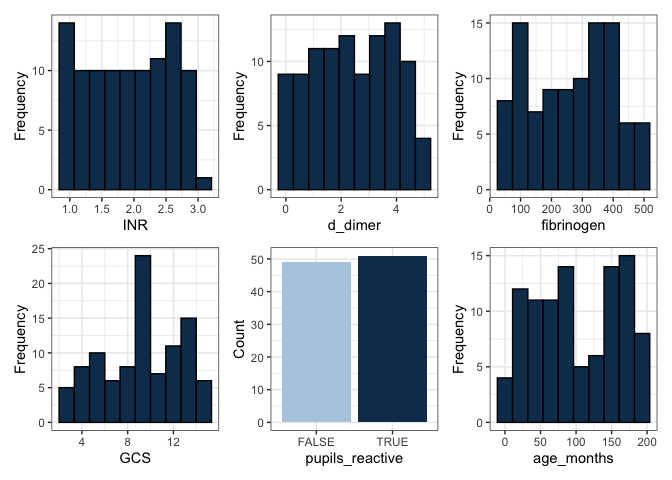
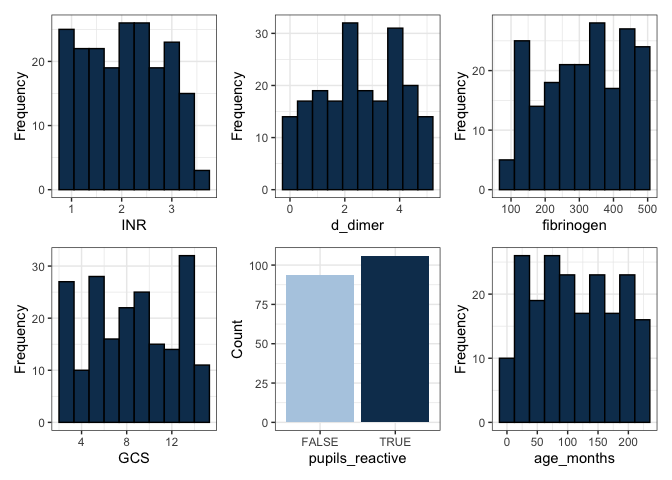
phoenix values

diff --git a/pages/Phoenix_Sepsis_Score_logic.md b/pages/Phoenix_Sepsis_Score_logic.md
@@ -234,18 +234,18 @@ typical clinical variations.
 
 ``` r
 # Subject cohort ----
-sample_count <- 100
+sample_count <- 200
 
 # Define min-max ranges for each variable
 PaO2_FiO2_range <- c(100, 450)
-SpO2_FiO2_range <- c(100, 300)
-lactate_range <- c(0.5, 6)
-platelets_range <- c(50000, 450000)
-INR_range <- c(0.8, 3)
+SpO2_FiO2_range <- c(100, 450)
+lactate_range <- c(0.5, 5)
+platelets_range <- c(20000, 450000)
+INR_range <- c(0.8, 3.5)
 d_dimer_range <- c(0, 5)
-fibrinogen_range <- c(50, 500)
+fibrinogen_range <- c(100, 500)
 GCS_range <- c(3, 15)
-age_months_range <- c(1, 200)
+age_months_range <- c(1, 228)
 
 # Generate random data for a given number of subjects
 data <- data.frame(
@@ -270,26 +270,26 @@ print(head(data))
 ```
 
     ##   subject_id PaO2_FiO2 SpO2_FiO2 is_on_IMV lactate
-    ## 1          1    200.65    220.00     FALSE    4.82
-    ## 2          2    375.91    166.56      TRUE    0.55
-    ## 3          3    243.14    197.72     FALSE    4.78
-    ## 4          4    409.06    290.89     FALSE    4.51
-    ## 5          5    429.16    196.58     FALSE    3.97
-    ## 6          6    115.94    278.07      TRUE    3.15
+    ## 1          1    200.65    183.55      TRUE    1.57
+    ## 2          2    375.91    436.83     FALSE    3.59
+    ## 3          3    243.14    310.48      TRUE    1.52
+    ## 4          4    409.06    280.26     FALSE    1.93
+    ## 5          5    429.16    240.90     FALSE    1.28
+    ## 6          6    115.94    408.09     FALSE    4.11
     ##   vasoactive_medications platelets  INR d_dimer
-    ## 1                      2    191442 1.32    4.22
-    ## 2                      2    196577 2.31    1.30
-    ## 3                      2    164840 1.30    0.12
-    ## 4                      0     81989 1.50    4.31
-    ## 5                      0    196182 1.18    1.67
-    ## 6                      2    121206 2.56    3.16
+    ## 1                      2    137658 3.12    1.17
+    ## 2                      0    275363 3.20    1.15
+    ## 3                      3     88879 2.12    0.31
+    ## 4                      3    386975 2.74    2.49
+    ## 5                      2    384528 2.11    1.22
+    ## 6                      0    225491 3.47    3.79
     ##   fibrinogen GCS pupils_reactive age_months
-    ## 1     261.81  10            TRUE         18
-    ## 2     214.63  10           FALSE        182
-    ## 3     104.57   7           FALSE        142
-    ## 4      71.15   7            TRUE        195
-    ## 5     168.26  10            TRUE         92
-    ## 6     485.89   8           FALSE         67
+    ## 1     355.67  12           FALSE        199
+    ## 2     149.93   4            TRUE         26
+    ## 3     202.11  15            TRUE        209
+    ## 4     428.23   8            TRUE        175
+    ## 5     421.51  15            TRUE         37
+    ## 6     118.33  14           FALSE         32
 
 ## Data distribution plots
 
@@ -458,34 +458,34 @@ if ("data" %in% ls() && is.data.frame(data)) {
 print(head(data))
 ```
 
-    ##   subject_id               result total_score
-    ## 1          1         Septic shock           9
-    ## 2          2         Septic shock          10
-    ## 3          3         Septic shock           9
-    ## 4          4               Sepsis           2
-    ## 5          5 Monitor and reassess           1
-    ## 6          6         Septic shock          10
-    ##   PaO2_FiO2 SpO2_FiO2 is_on_IMV lactate
-    ## 1    200.65    220.00     FALSE    4.82
-    ## 2    375.91    166.56      TRUE    0.55
-    ## 3    243.14    197.72     FALSE    4.78
-    ## 4    409.06    290.89     FALSE    4.51
-    ## 5    429.16    196.58     FALSE    3.97
-    ## 6    115.94    278.07      TRUE    3.15
-    ##   vasoactive_medications platelets  INR d_dimer
-    ## 1                      2    191442 1.32    4.22
-    ## 2                      2    196577 2.31    1.30
-    ## 3                      2    164840 1.30    0.12
-    ## 4                      0     81989 1.50    4.31
-    ## 5                      0    196182 1.18    1.67
-    ## 6                      2    121206 2.56    3.16
-    ##   fibrinogen GCS pupils_reactive age_months
-    ## 1     261.81  10            TRUE         18
-    ## 2     214.63  10           FALSE        182
-    ## 3     104.57   7           FALSE        142
-    ## 4      71.15   7            TRUE        195
-    ## 5     168.26  10            TRUE         92
-    ## 6     485.89   8           FALSE         67
+    ##   subject_id       result total_score PaO2_FiO2
+    ## 1          1 Septic shock          10    200.65
+    ## 2          2       Sepsis           2    375.91
+    ## 3          3 Septic shock           7    243.14
+    ## 4          4 Septic shock           8    409.06
+    ## 5          5 Septic shock           7    429.16
+    ## 6          6       Sepsis           3    115.94
+    ##   SpO2_FiO2 is_on_IMV lactate vasoactive_medications
+    ## 1    183.55      TRUE    1.57                      2
+    ## 2    436.83     FALSE    3.59                      0
+    ## 3    310.48      TRUE    1.52                      3
+    ## 4    280.26     FALSE    1.93                      3
+    ## 5    240.90     FALSE    1.28                      2
+    ## 6    408.09     FALSE    4.11                      0
+    ##   platelets  INR d_dimer fibrinogen GCS
+    ## 1    137658 3.12    1.17     355.67  12
+    ## 2    275363 3.20    1.15     149.93   4
+    ## 3     88879 2.12    0.31     202.11  15
+    ## 4    386975 2.74    2.49     428.23   8
+    ## 5    384528 2.11    1.22     421.51  15
+    ## 6    225491 3.47    3.79     118.33  14
+    ##   pupils_reactive age_months
+    ## 1           FALSE        199
+    ## 2            TRUE         26
+    ## 3            TRUE        209
+    ## 4            TRUE        175
+    ## 5            TRUE         37
+    ## 6           FALSE         32
 
 ## Conclustion
 
